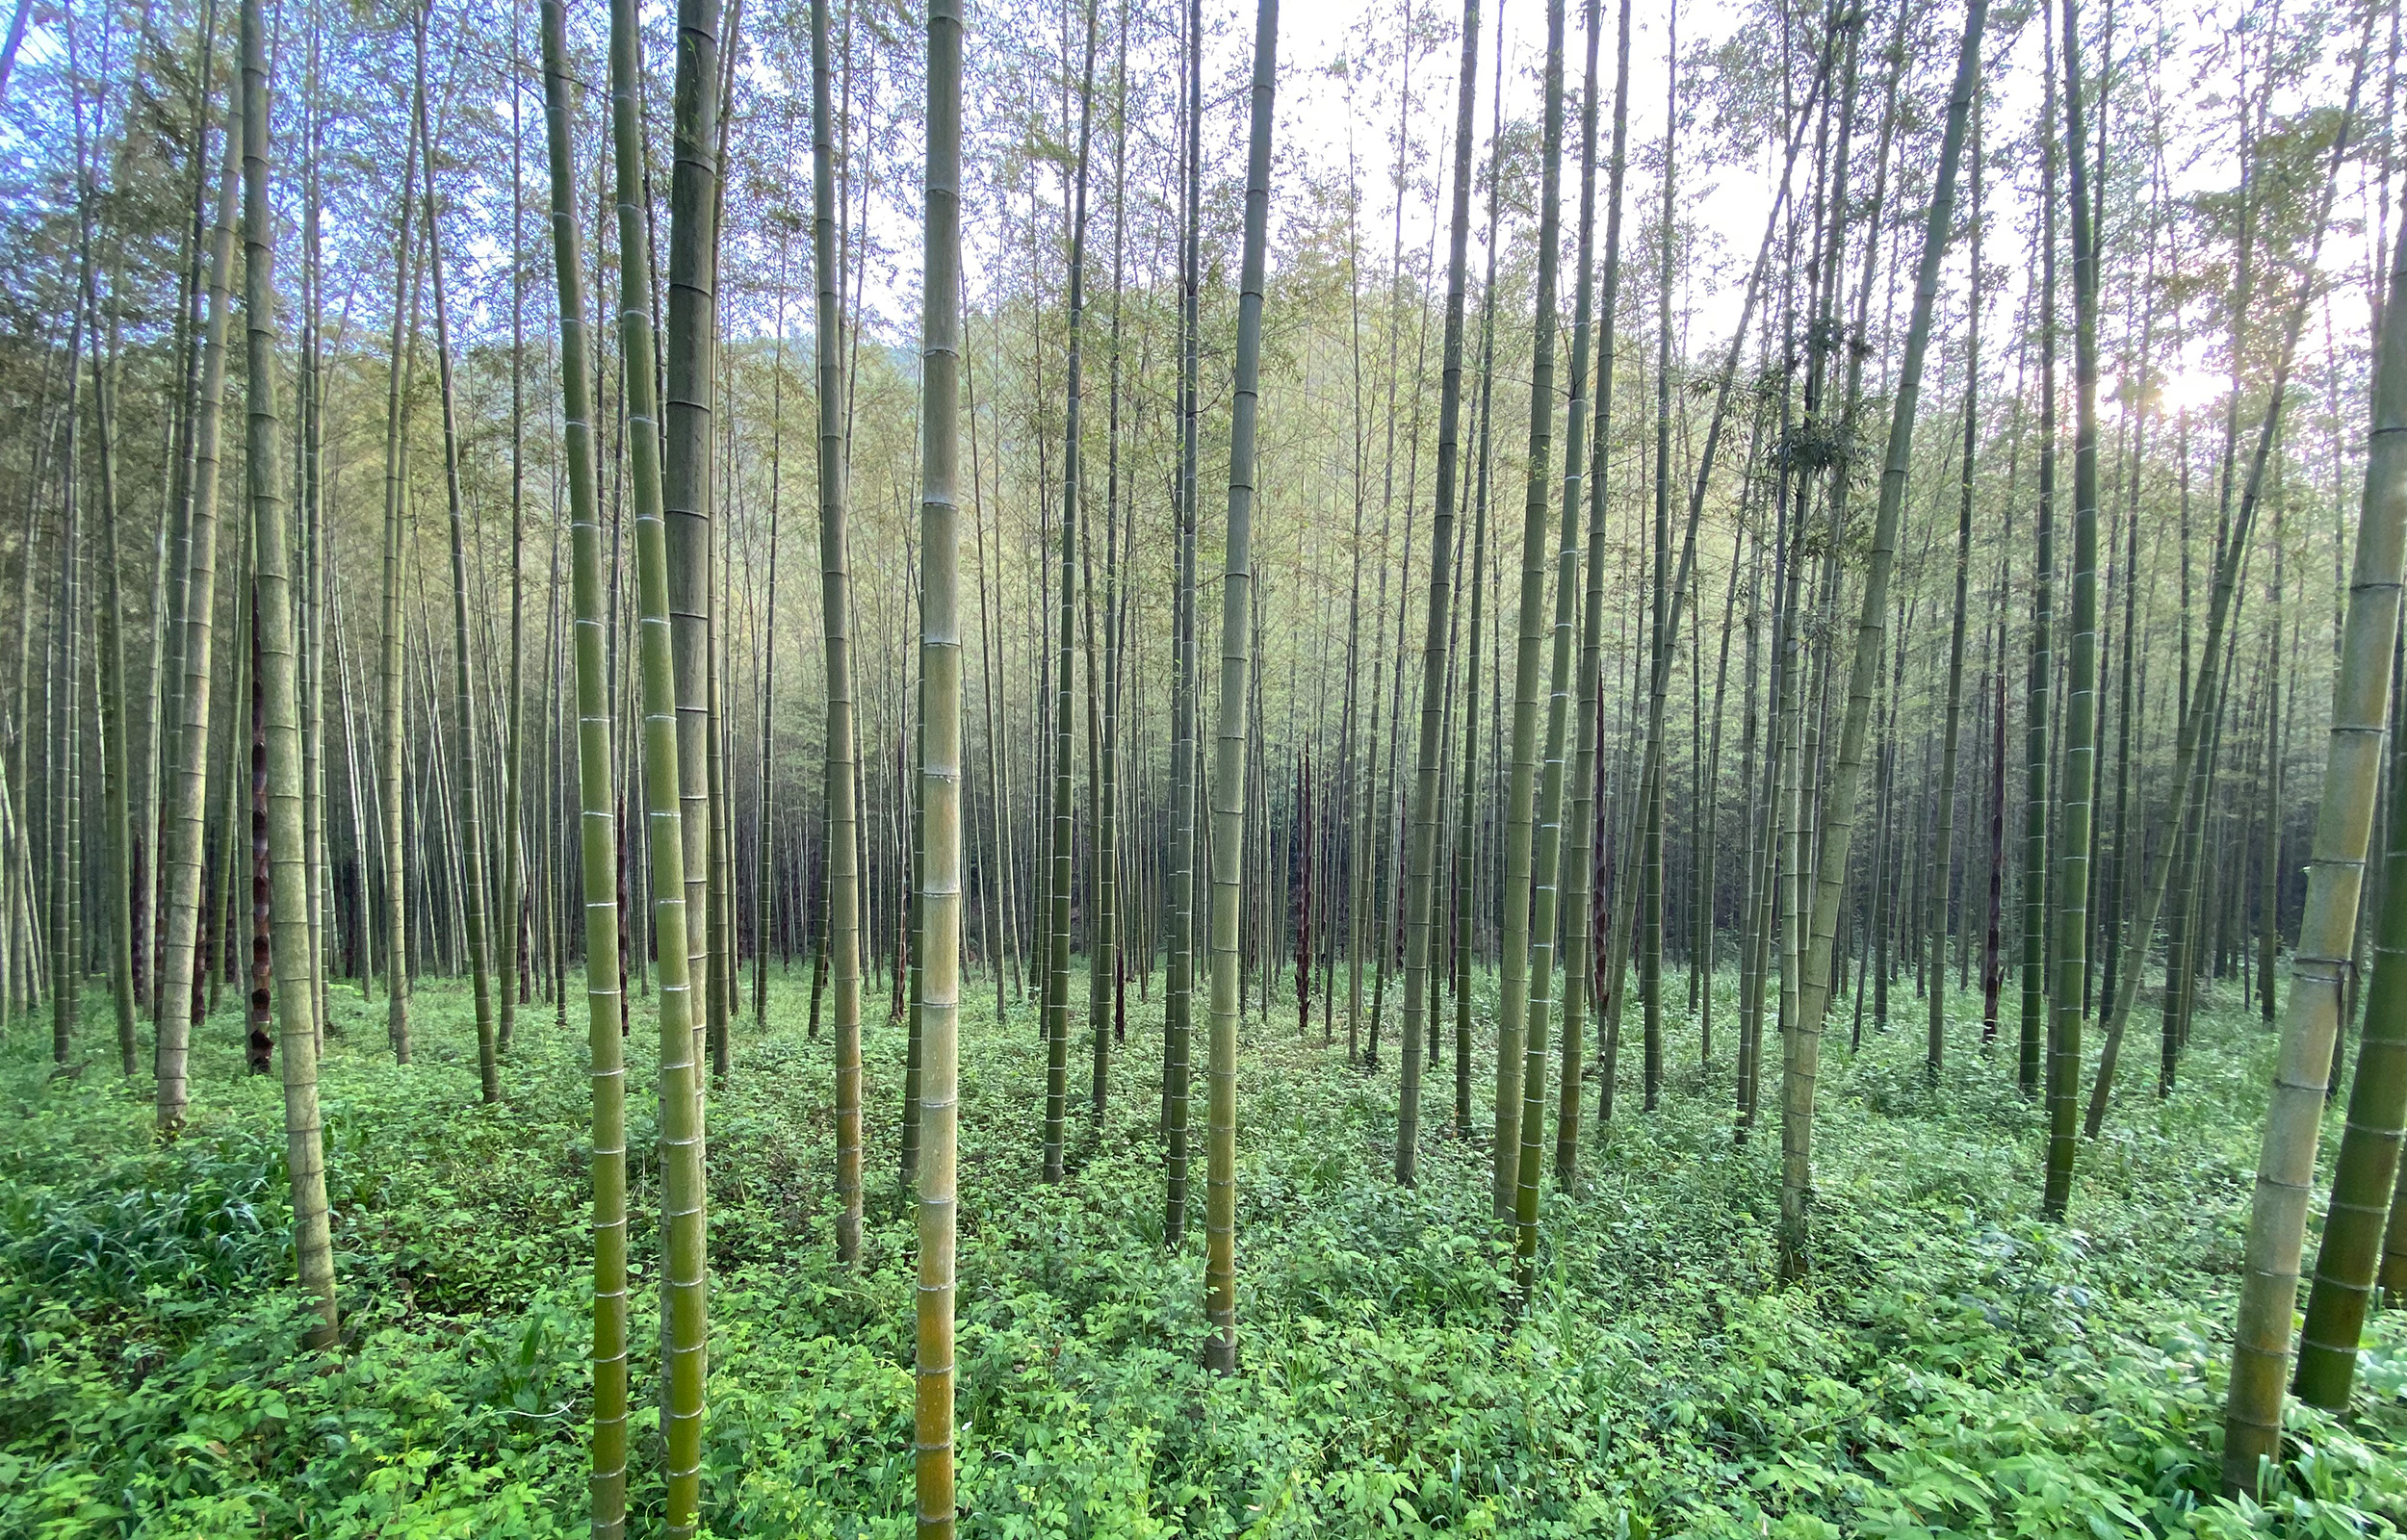
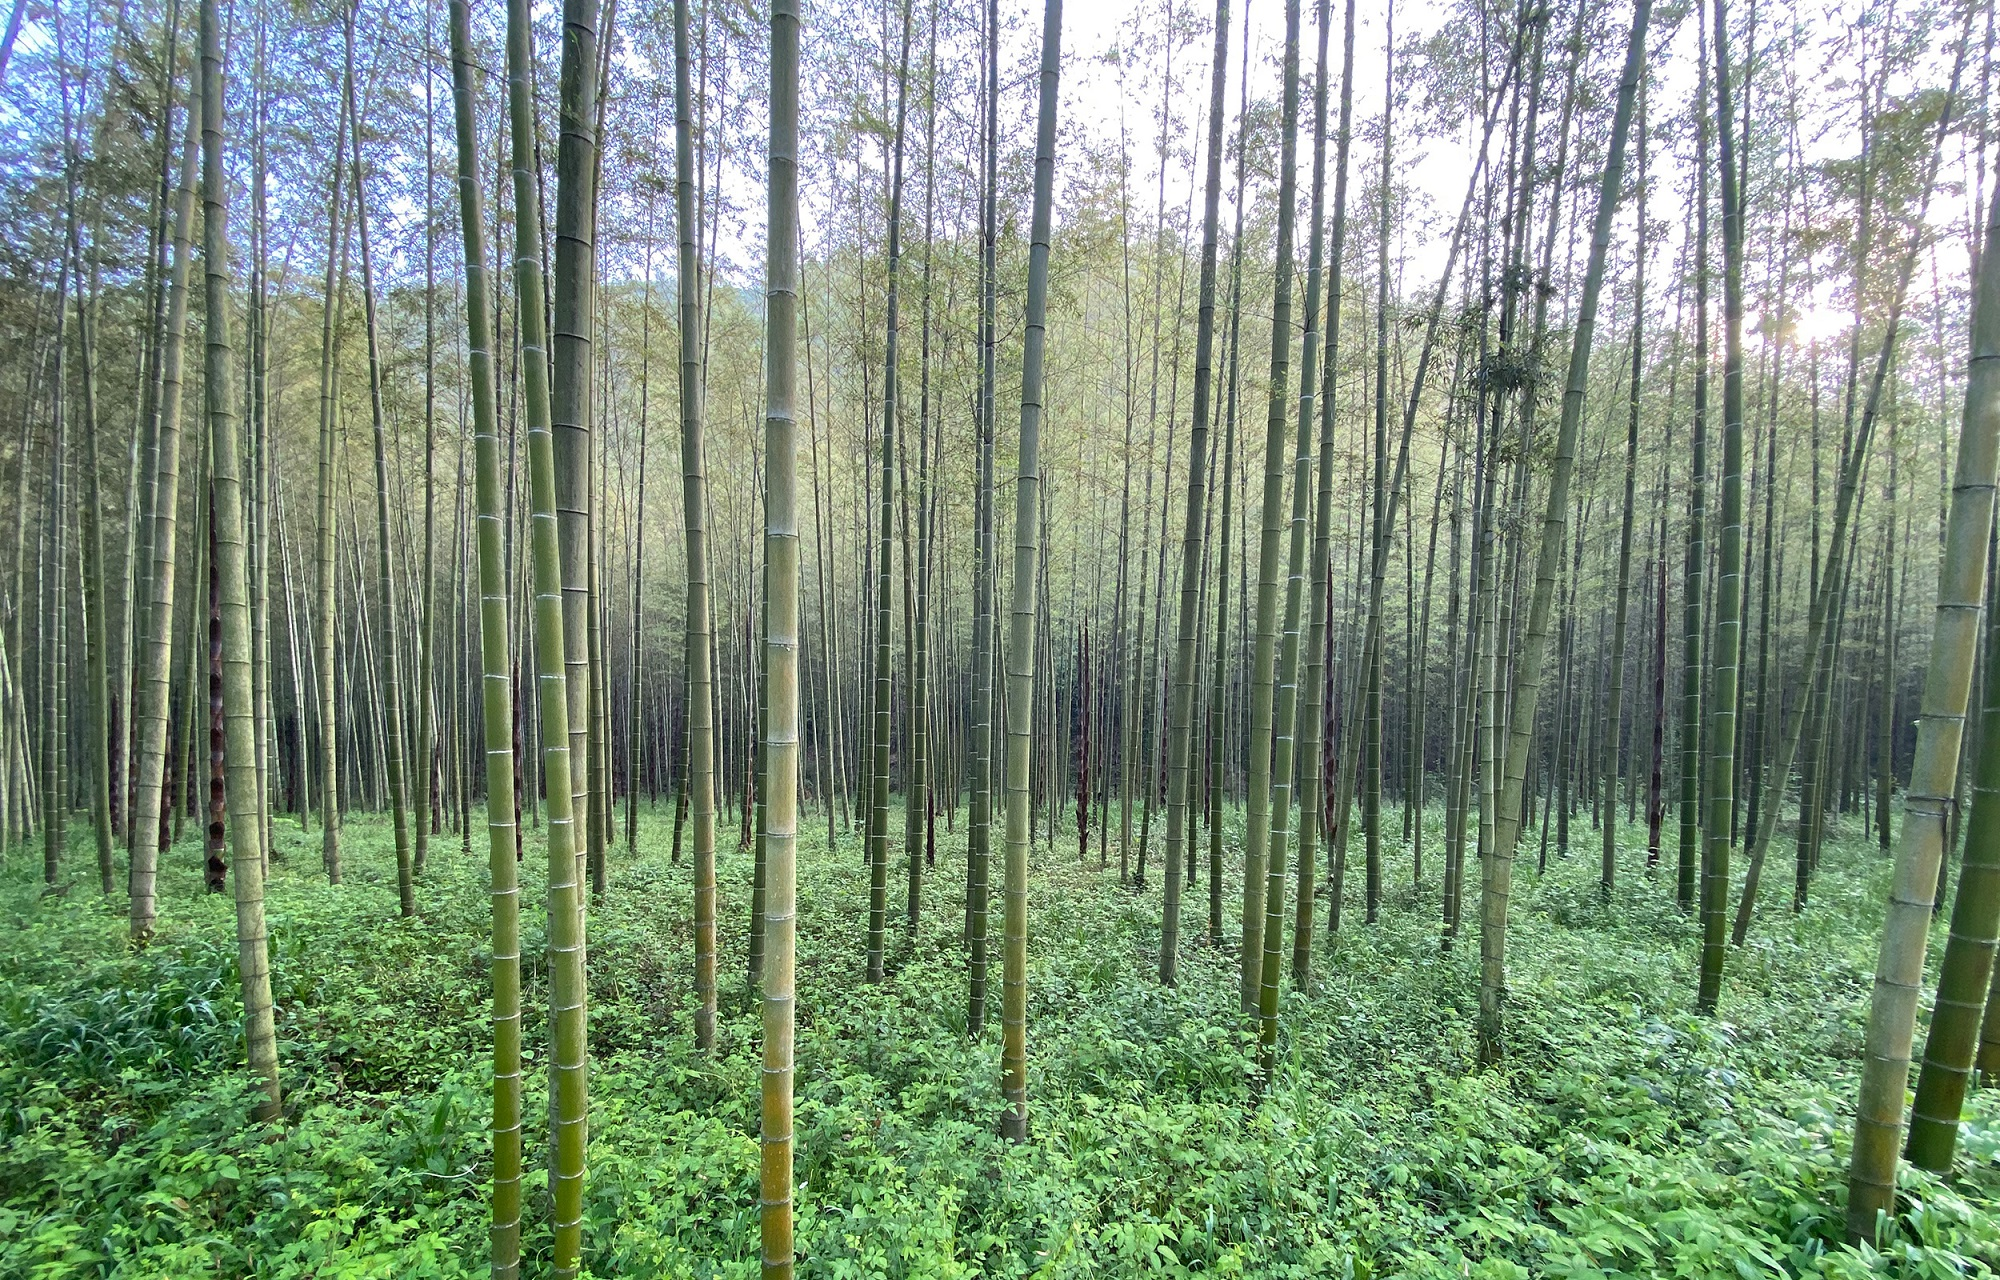
update hero image

diff --git a/src/data/client.ts b/src/data/client.ts
@@ -21,8 +21,8 @@ export const BUSINESS = {
     address: {
         lineOne: "Bamboo Industry Zone",
         lineTwo: "Xiaofeng",
-        city: "Anji, ",
-        state: "China, ",
+        city: "Anji", 
+        state: "China", 
         zip: "313300",
         mapLink: "#",
     },